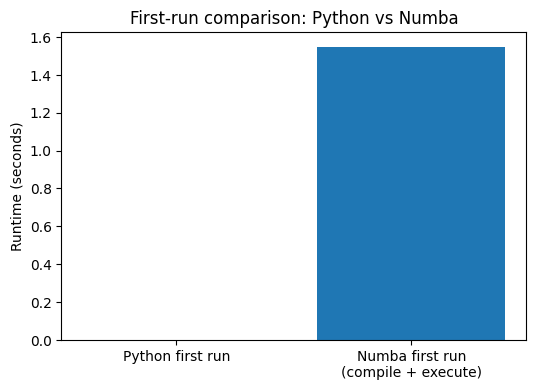
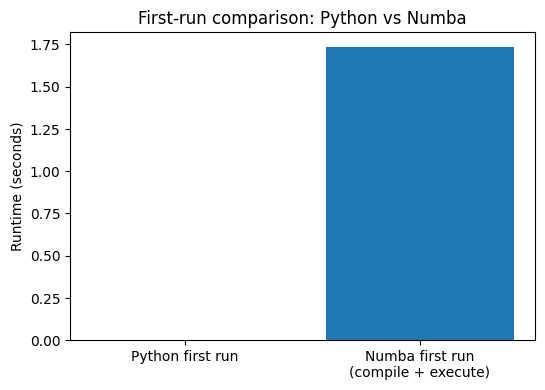
updated report

diff --git a/project/project.md b/project/project.md
@@ -2,7 +2,7 @@
 
 # Track C: JIT Compilation
 
-## Introduction
+# Introduction
 
 This project investigates the acceleration of a core computation in a computer vision pipeline.
 
@@ -10,15 +10,15 @@ YOLOv8 (Ultralytics implementation) is used to generate object detections on a t
 
 A baseline Python implementation is compared with an optimized version using Numba JIT compilation.
 
-# Benchmark Methodology
 
-## Objective
+# Objective
 
 The goal of the benchmark is to compare the execution time of a pure Python implementation of pairwise Intersection over Union (IoU) computation with an optimized implementation using Numba JIT compilation. This will include an analysis of the performance gains and trade-offs of applying JIT compilation to this workload.
 
 It is important to also ensure correctness of the optimized computation.
 
----
+
+# Workload & Problem Definition
 
 ## Workload Definition
 
@@ -40,7 +40,12 @@ A single pass over this dataset was found to be insufficiently computationally i
 
 The same detection data is reused across all repetitions to ensure identical inputs for both baseline and optimized implementations.
 
----
+## Time complexity of pairwise IoU computation
+
+* The pairwise IoU computation has O(N²) time complexity - since IoU is computed for all pairs of bounding boxes
+* This quadratic growth means that the number of operations increases very quickly as the number of bounding boxes increases
+* As a result, this calculation is more likely to become a performance bottleneck in detection pipelines - especially if many objects are detected (e.g. in an urban setting or on highway)
+* This JIT optimization does not change the algorithmic complexity, which is still O(N²), but the cost per operation is significantly reduced and results in substantial overall speedup.
 
 ## Implementations Compared
 
@@ -52,6 +57,8 @@ Two implementations are evaluated:
 Both implementations compute the same IoU matrix for each image.
 
 ---
+
+# Benchmark Methodology
 
 ## Timing Procedure
 
@@ -79,13 +86,6 @@ The Python implementation does not require warm-up, as it does not involve compi
 
 ---
 
-
-## Hardware Environment
-
-All experiments are executed in a Google Colab environment using a standard CPU configuration.
-
----
-
 ## Metrics Reported
 
 The following metrics are reported:
@@ -97,18 +97,36 @@ The following metrics are reported:
 
 These metrics provide both absolute and normalized views of performance.
 
-## Results
+## Hardware Environment
 
-- Python baseline runtime: 4.5865 s
-- Numba steady-state runtime: 0.0513 s  
+All experiments are executed in a Google Colab environment using a standard CPU configuration.
+
+---
+
+# Results
+
+- Python baseline runtime: 4.5865 s (0.5957 ms/img)
+
+## Steady-state
+- Numba steady-state runtime: 0.0513 s  (0.0068 ms/img)
 - Steady-state speedup: ~88×
+
+![steady-state runtime comparison](supporting-files/total-runtime.png)
+
+![per-image runtime comparison](supporting-files/per-image.png)
+
+## End-to-end
 - Numba first-run time (compile + execute): 1.7363 s
 - End-to-end speedup: 2,57x
+
+![first-run comparison](supporting-files/first-run.png)
 
 ## Limitations
 
 - The dataset is relatively small (160 images), requiring repeated passes to create a sufficiently large workload.  
 - The benchmark focuses on a custom IoU kernel rather than full object detection, so end-to-end performance gains would be smaller.  
+
+---
 
 # Correctness Validation
 
@@ -116,7 +134,9 @@ These metrics provide both absolute and normalized views of performance.
 - Equality is verified using `np.allclose` with a tolerance of `1e-6`  
 - The maximum (worst-case) absolute difference across all outputs was 0.00000024 s and the mean was 0.00000000.
 
-## Discussion
+---
+
+# Discussion
 
 The large speedup (~88x) is primarily due to the difference between Python's interpreted execution and Numba's compiled code. The baseline implementation relies on nested Python loops, which introduce significant interpreter overhead. Numba eliminates this overhead by compiling the computation into efficient native code.
 
@@ -124,7 +144,9 @@ However, this speedup applies only to the IoU computation kernel. If this IoU ca
 
 The workload is scaled through repeated passes over the same dataset. This approach ensures stable timing and a sufficiently large benchmark, but it it worth noting that the image dataset itself is relatively small (160 images).
 
-## Conclusion
+---
+
+# Conclusion
 
 This project demonstrates that JIT compilation using Numba can significantly accelerate a computational kernel in a computer vision pipeline. The IoU computation achieved a steady-state speedup of approximately 88x while maintaining numerical correctness.
 
